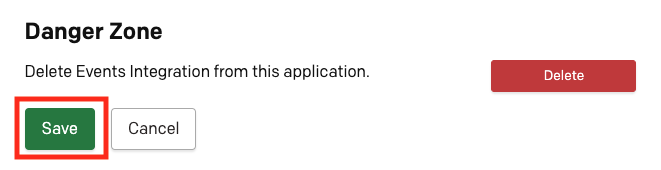
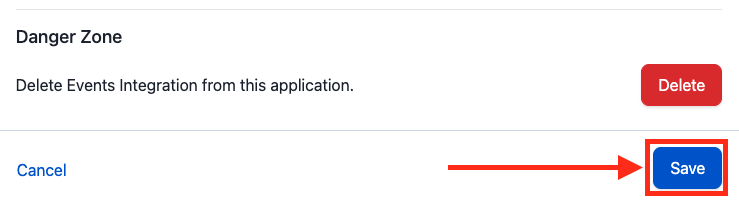
DEVI-1710 - App Developer UI docs updates (#77)
* Docs updates.

* Forgot revoke screenshot.

diff --git a/docs/app-integration-development/08-Classic-User-OAuth.md b/docs/app-integration-development/08-Classic-User-OAuth.md
@@ -20,19 +20,16 @@ This is a simple and seamless process for the user and more secure because as an
 ## Add Classic User OAuth functionality to your app
 1. [Create an app in PagerDuty](../../docs/app-integration-development/03-Register-an-App.md)
 
-2. In the **Functionality** section, click **Add** on the Classic User OAuth card.
+2. In the **Functionality** section, click **Add** on the OAuth card.
+![Add OAuth Functionality](../../assets/images/oauth-functionality-card.png)
 ![Add OAuth Functionality](../../assets/images/add-classic-user-oauth-functionality.png)
 
-3. On the next page, enter a **Redirect URL**. PagerDuty will only redirect users to a URL saved to your OAuth configuration. Click **Save**. You can edit or add redirect URLs later.
+3. On the **Configure OAuth 2.0** page, enter a **Redirect URL**. PagerDuty will only redirect users to a URL saved to your OAuth configuration. Click **Save**. You can edit or add redirect URLs later.
 ![Specify a redirect URL](../../assets/images/specify-redirect-url.png)
 
 4. You will be shown a modal that displays the **Client ID** and the **Client Secret**. The Client Secret will only be displayed once for security purposes, after which you will have to delete the OAuth client and create a new one if the Client Secret is compromised or otherwise lost. The Client Secret should be stored securely and must not be shared publicly -- if you are using OAuth in a frontend application we recommend the PKCE flow instead (see section on Choosing an OAuth Flow below). The Client ID is public and will be used to identify the app when it authenticates with PagerDuty.
 
-5. Under **Set Permission Scopes**, select an option from the drop-down. By default, the app does not have any permissions set. There are two scope options: **Read** or **Read/Write**. These scopes are tied to the user’s permissions. Authenticated users will only be able to read and write to objects that they have access to.
-
-6. It is recommended to **Add a message to users** to let them know what data the app will access and how the app will utilize that data.
-
-![Select OAuth Scopes](../../assets/images/select-oauth-scopes.png)
+5. Under **Permission Scope**, select an option from the drop-down. There are two scope options: **Read** or **Read/Write**. These scopes are tied to the user’s permissions. Authenticated users will only be able to read and write to objects that they have access to.
 
 Congratulations! Classic User OAuth is successfully configured for the app. Now you can move on to implementing one of the authorization flows below.
 

diff --git a/docs/app-integration-development/03-Register-an-App.md b/docs/app-integration-development/03-Register-an-App.md
@@ -20,18 +20,16 @@ When you log into a developer account, you'll be taken straight to the App Regis
 <!-- theme: info -->
 > Apps are associated with a PagerDuty subdomain and a user and cannot be moved between subdomains or users. Continued access to this subdomain and user is needed to make any configuration changes to the app.
 
-On the **My Apps** page, select **Create New App**. Enter a name for your app and a brief description.
+On the **My Apps** page, select **New App**. Enter a name for your app and a brief description, and complete the rest of the New App wizard as necessary.
 ![Screenshot of app registration form](../../assets/images/app_register.png)
 
-After saving to register your new app, you will be directed to the **Configure App** page to add functionality and set configuration. The new app will also now appear under **My Apps** in the **App Registration** page.
+The new app will now appear under **My Apps** in the **App Registration** page.
 
 ### Editing your app configuration
 
-Immediately after registering a new app, or by selecting an app from the **My Apps** page, you will be directed to the **Configure App** page. From this page you can:
+By selecting an app from the **My Apps** page, you will be directed to the **Edit App** page. From this page you can:
 - Edit the app name and description.
 - [Add API and/or OAuth functionality](../../docs/app-integration-development/04-App-Functionality.md).
-- [Distribute/publish your app](../../docs/app-integration-development/11-Publish-Your-App.md) to share with all PagerDuty customers.
-- Provide an **App Website URL** where users can learn more about the app.
-- Upload an **App Icon**, an image file that will display with the app. Icons should be sized 50px by 50px. Once the image file is uploaded, the image will display to the side and in the **Preview** box.
+- [Change your App Type to distribute/publish your app](../../docs/app-integration-development/11-Publish-Your-App.md) and share with all PagerDuty customers.
 
-![Screenshot of app preview box](../../assets/images/app-preview-box.png)
+![Screenshot of app preview box](../../assets/images/app_edit_page.png)

diff --git a/docs/app-integration-development/11-Publish-Your-App.md b/docs/app-integration-development/11-Publish-Your-App.md
@@ -8,7 +8,7 @@ Once you are done building an app, you can publish it to share with all PagerDut
 
 ## Manage Distribution
 
-On your app's configuration page, scroll down to the **Distribution** section and click the **Manage** button.
+On your app's configuration page, scroll down to the **App Type** section and select the Public option and click on the Distribution Form button. Before the App can be made public the Distribution Form needs to be completed.
 
 ![Screenshot of app distribution management](../../assets/images/manage_distribution.png)
 
@@ -16,11 +16,11 @@ On your app's configuration page, scroll down to the **Distribution** section an
 
 You can optionally publish your app for all PagerDuty users to discover and use. Follow these steps to submit your app for review.
 
-1. On the **Distribution** page (see above), enter information for your app listing (like documentation and support contact) and provide instructions for testing your app.
+1. On the **Distribution Form** page (see above), enter information for your app listing (like documentation and support contact) and provide instructions for testing your app.
 
 ![Screenshot of app distribution management](../../assets/images/app-distribution-management.png)
 
-2. At the bottom of the **Distribution** page under **Submit for Review**, click the **Publish** button and confirm that you would like to submit.
+2. At the bottom of the **Distribution Form** page click the **Save** button. Upon returning to the Edit App page, click **Save** and confirm that you want to submit the app for review.
 
 ![Screenshot of app submit](../../assets/images/publish.png)
 

diff --git a/docs/app-integration-development/08-OAuth-Functionality.md b/docs/app-integration-development/08-OAuth-Functionality.md
@@ -102,11 +102,11 @@ Scoped OAuth applications that implement the refresh token flow for user tokens 
 ## Revoking Tokens
 In the event you believe your application's OAuth tokens to be compromised, you may choose to revoke all tokens currently issued to the application via the [App Registration](03-Register-an-App.md) UI.
 
-The following options are available on the OAuth functionality screen of a PagerDuty App:
+The following options are available on the OAuth functionality Client screen of a PagerDuty App:
 
 ![Screenshot of OAuth functionality danger zone](../../assets/images/oauth-danger-zone.png)
 
-The "Revoke all tokens" operation will invalidate all OAuth tokens for the current application. In the event you believe your application's `client_secret` to be compromised, you may choose to delete OAuth functionality from the application and recreate it.
+The "Revoke All Tokens" operation will invalidate all OAuth tokens for the current application. In the event you believe your application's `client_secret` to be compromised, you may choose to delete OAuth functionality from the application and recreate it.
 
 <!-- theme:info -->
 > Deleting the OAuth functionality _does not_ automatically revoke existing tokens. If you wish to perform both operations, you must revoke

diff --git a/docs/app-integration-development/04-App-Functionality.md b/docs/app-integration-development/04-App-Functionality.md
@@ -46,8 +46,10 @@ Use our [API Picker](../../docs/app-integration-development/05-API-Picker.md) re
 
 1. Go to your app's configuration page. [See how to register or edit an app](../../docs/app-integration-development/03-Register-an-App.md)
 2. Scroll down the the **Functionality** section of the page and click the **Manage** button on the card which represents the functionality you would like to remove.
-3. Scroll to the **Danger Zone** at the bottom of the page and click **Delete**
-![Screenshot of delete functionality section](../../assets/images/delete_functionality.png)
+3. To remove Events Integration Functionality scroll to the **Danger Zone** at the bottom of the page and click **Delete**
+![Screenshot of delete functionality section](../../assets/images/delete_events_integration.png)
+To remove OAuth functionality, navigate to the Client tab and click Delete.
+![Screenshot of delete functionality section](../../assets/images/delete_oauth.png)
 4. Confirm that you would like to remove app functionality
 ![Screenshot of delete confirmation modal](../../assets/images/delete_confirm.png)
 

diff --git a/docs/app-integration-development/06-Events-Integration.md b/docs/app-integration-development/06-Events-Integration.md
@@ -128,7 +128,7 @@ Use an Event Transformer when a technical service you are connecting to PagerDut
 
 Before submitting, make sure your integration is able to trigger, acknowledge, or resolve events in PagerDuty as you expect.
 
-1. Create a test service on the Events Integration page. When you click Create, a schedule and escalation policy will also be created and added to the service.
+1. Create a test service on the Events Integration page. When you click Save, a schedule and escalation policy will also be created and added to the service.
 
 ![Screenshot of create test service button](../../assets/images/create-test-service.png)
 
